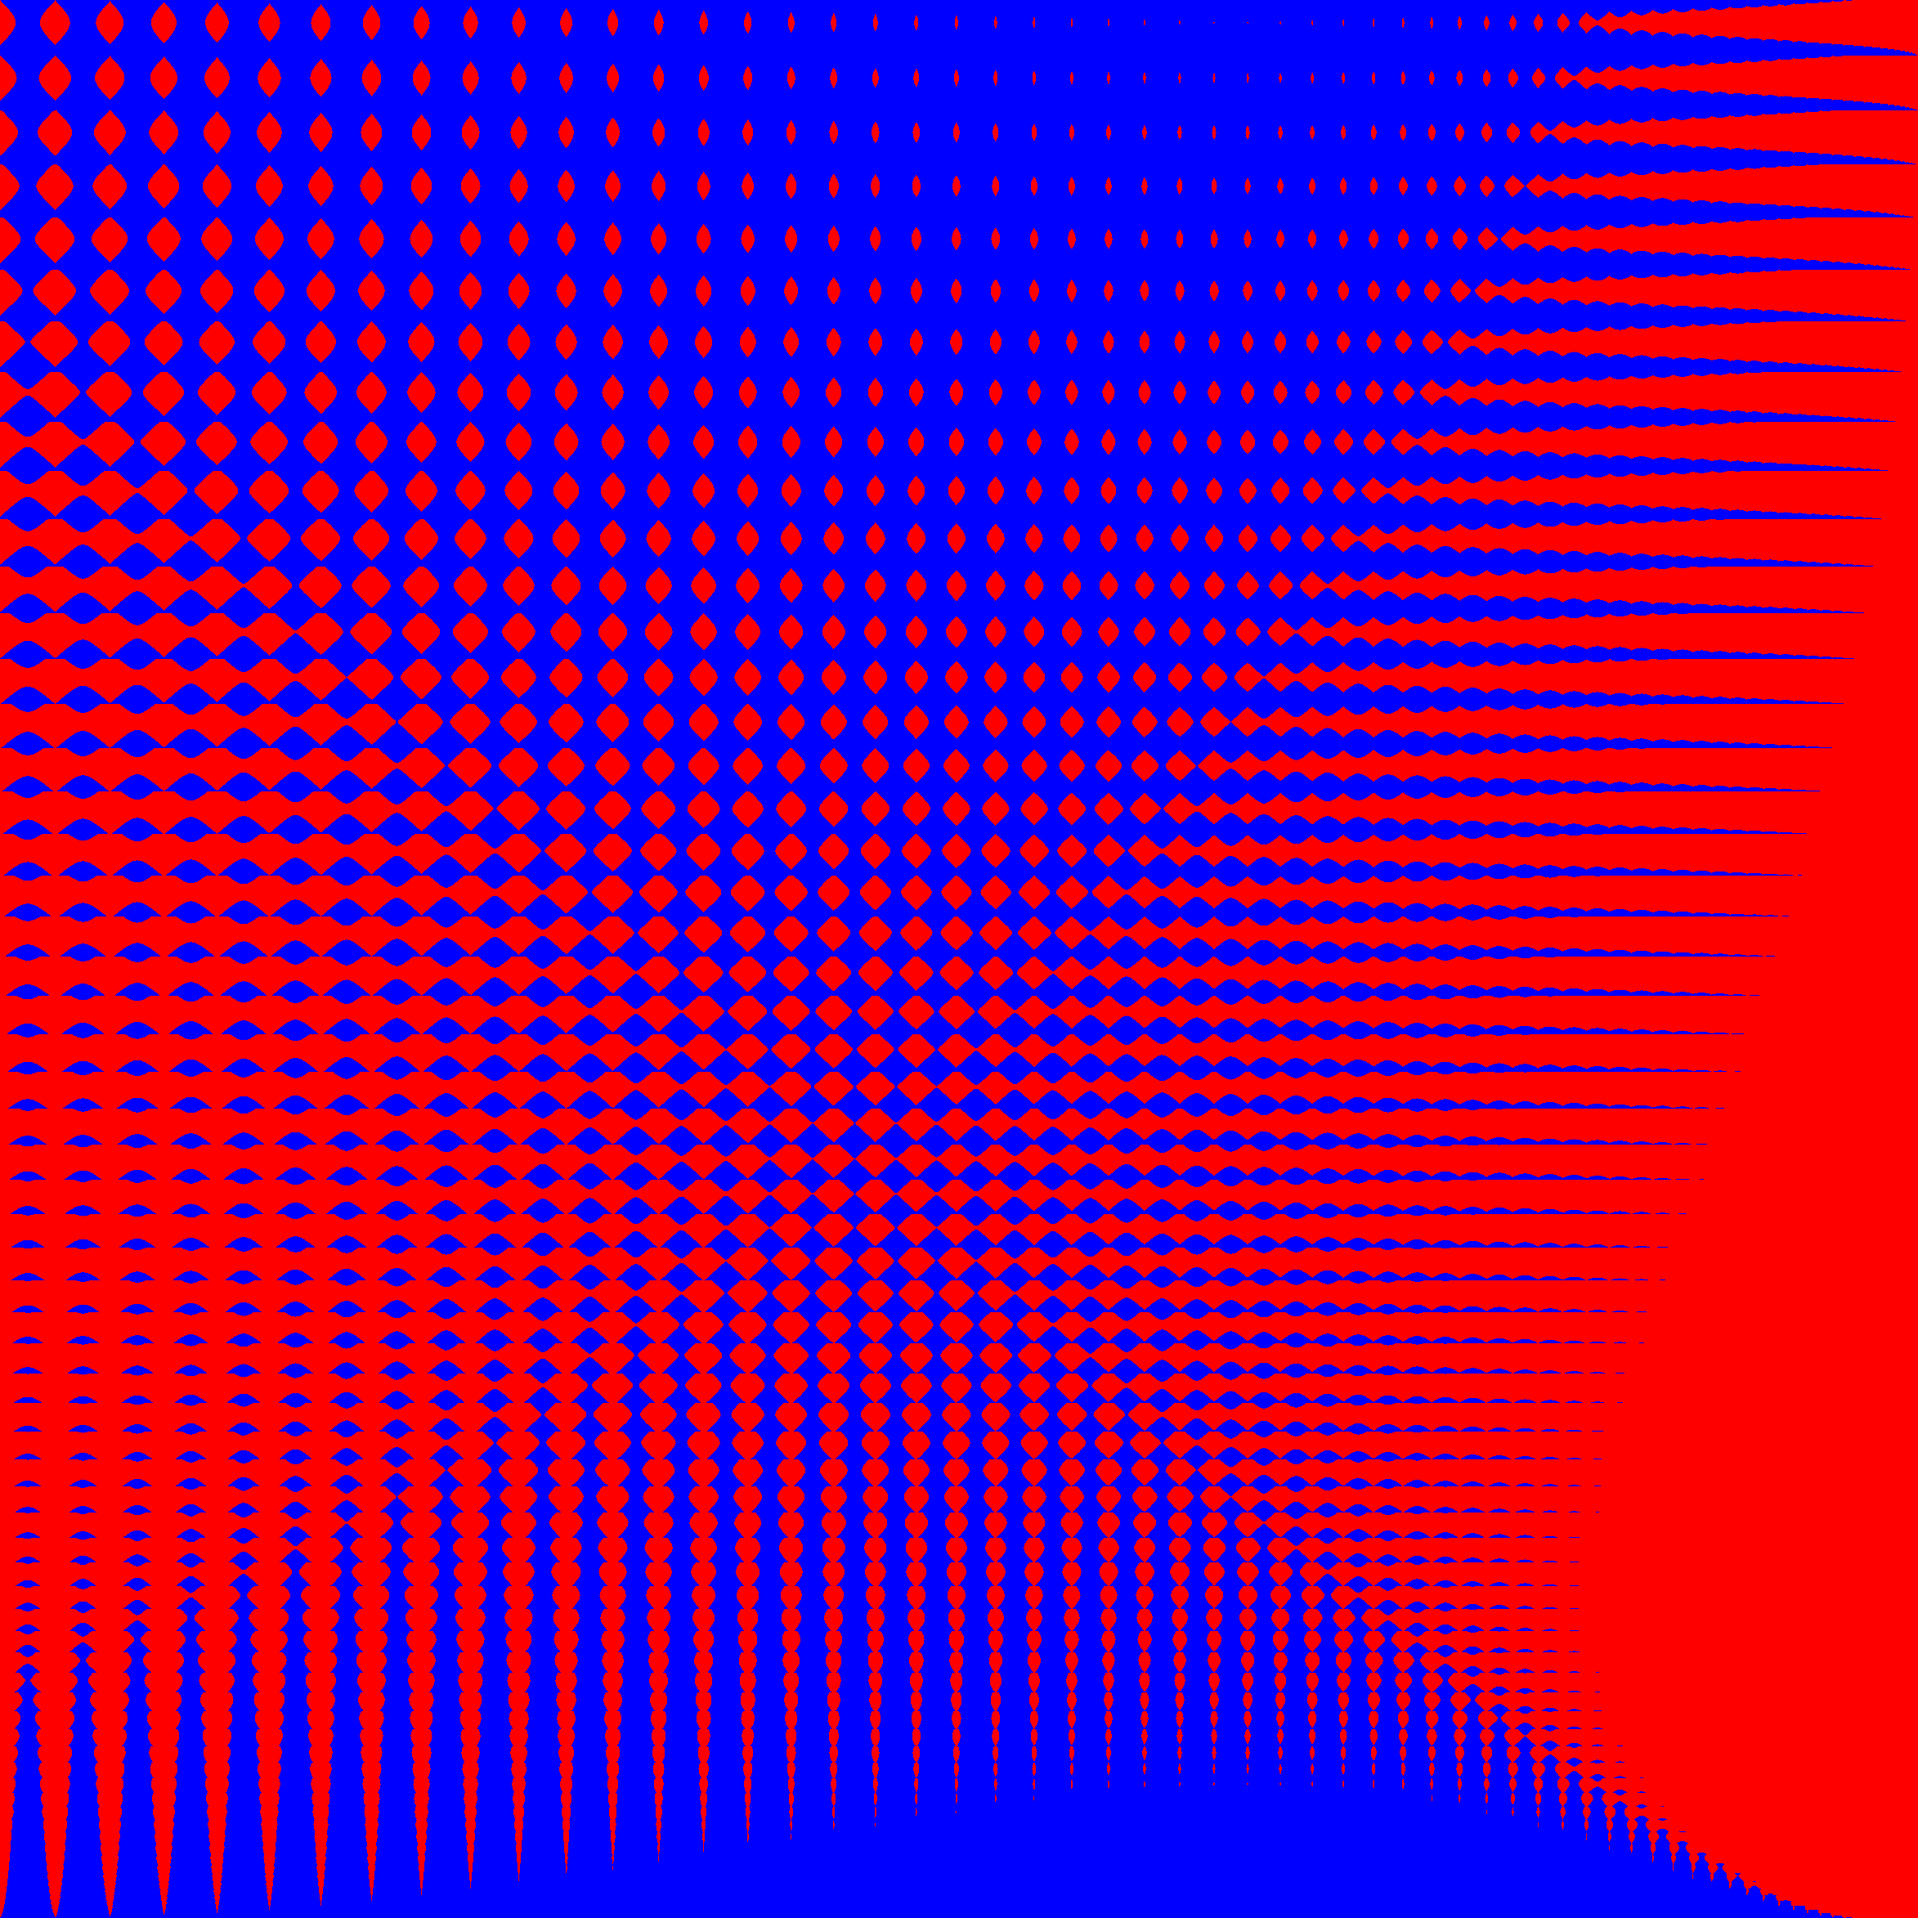
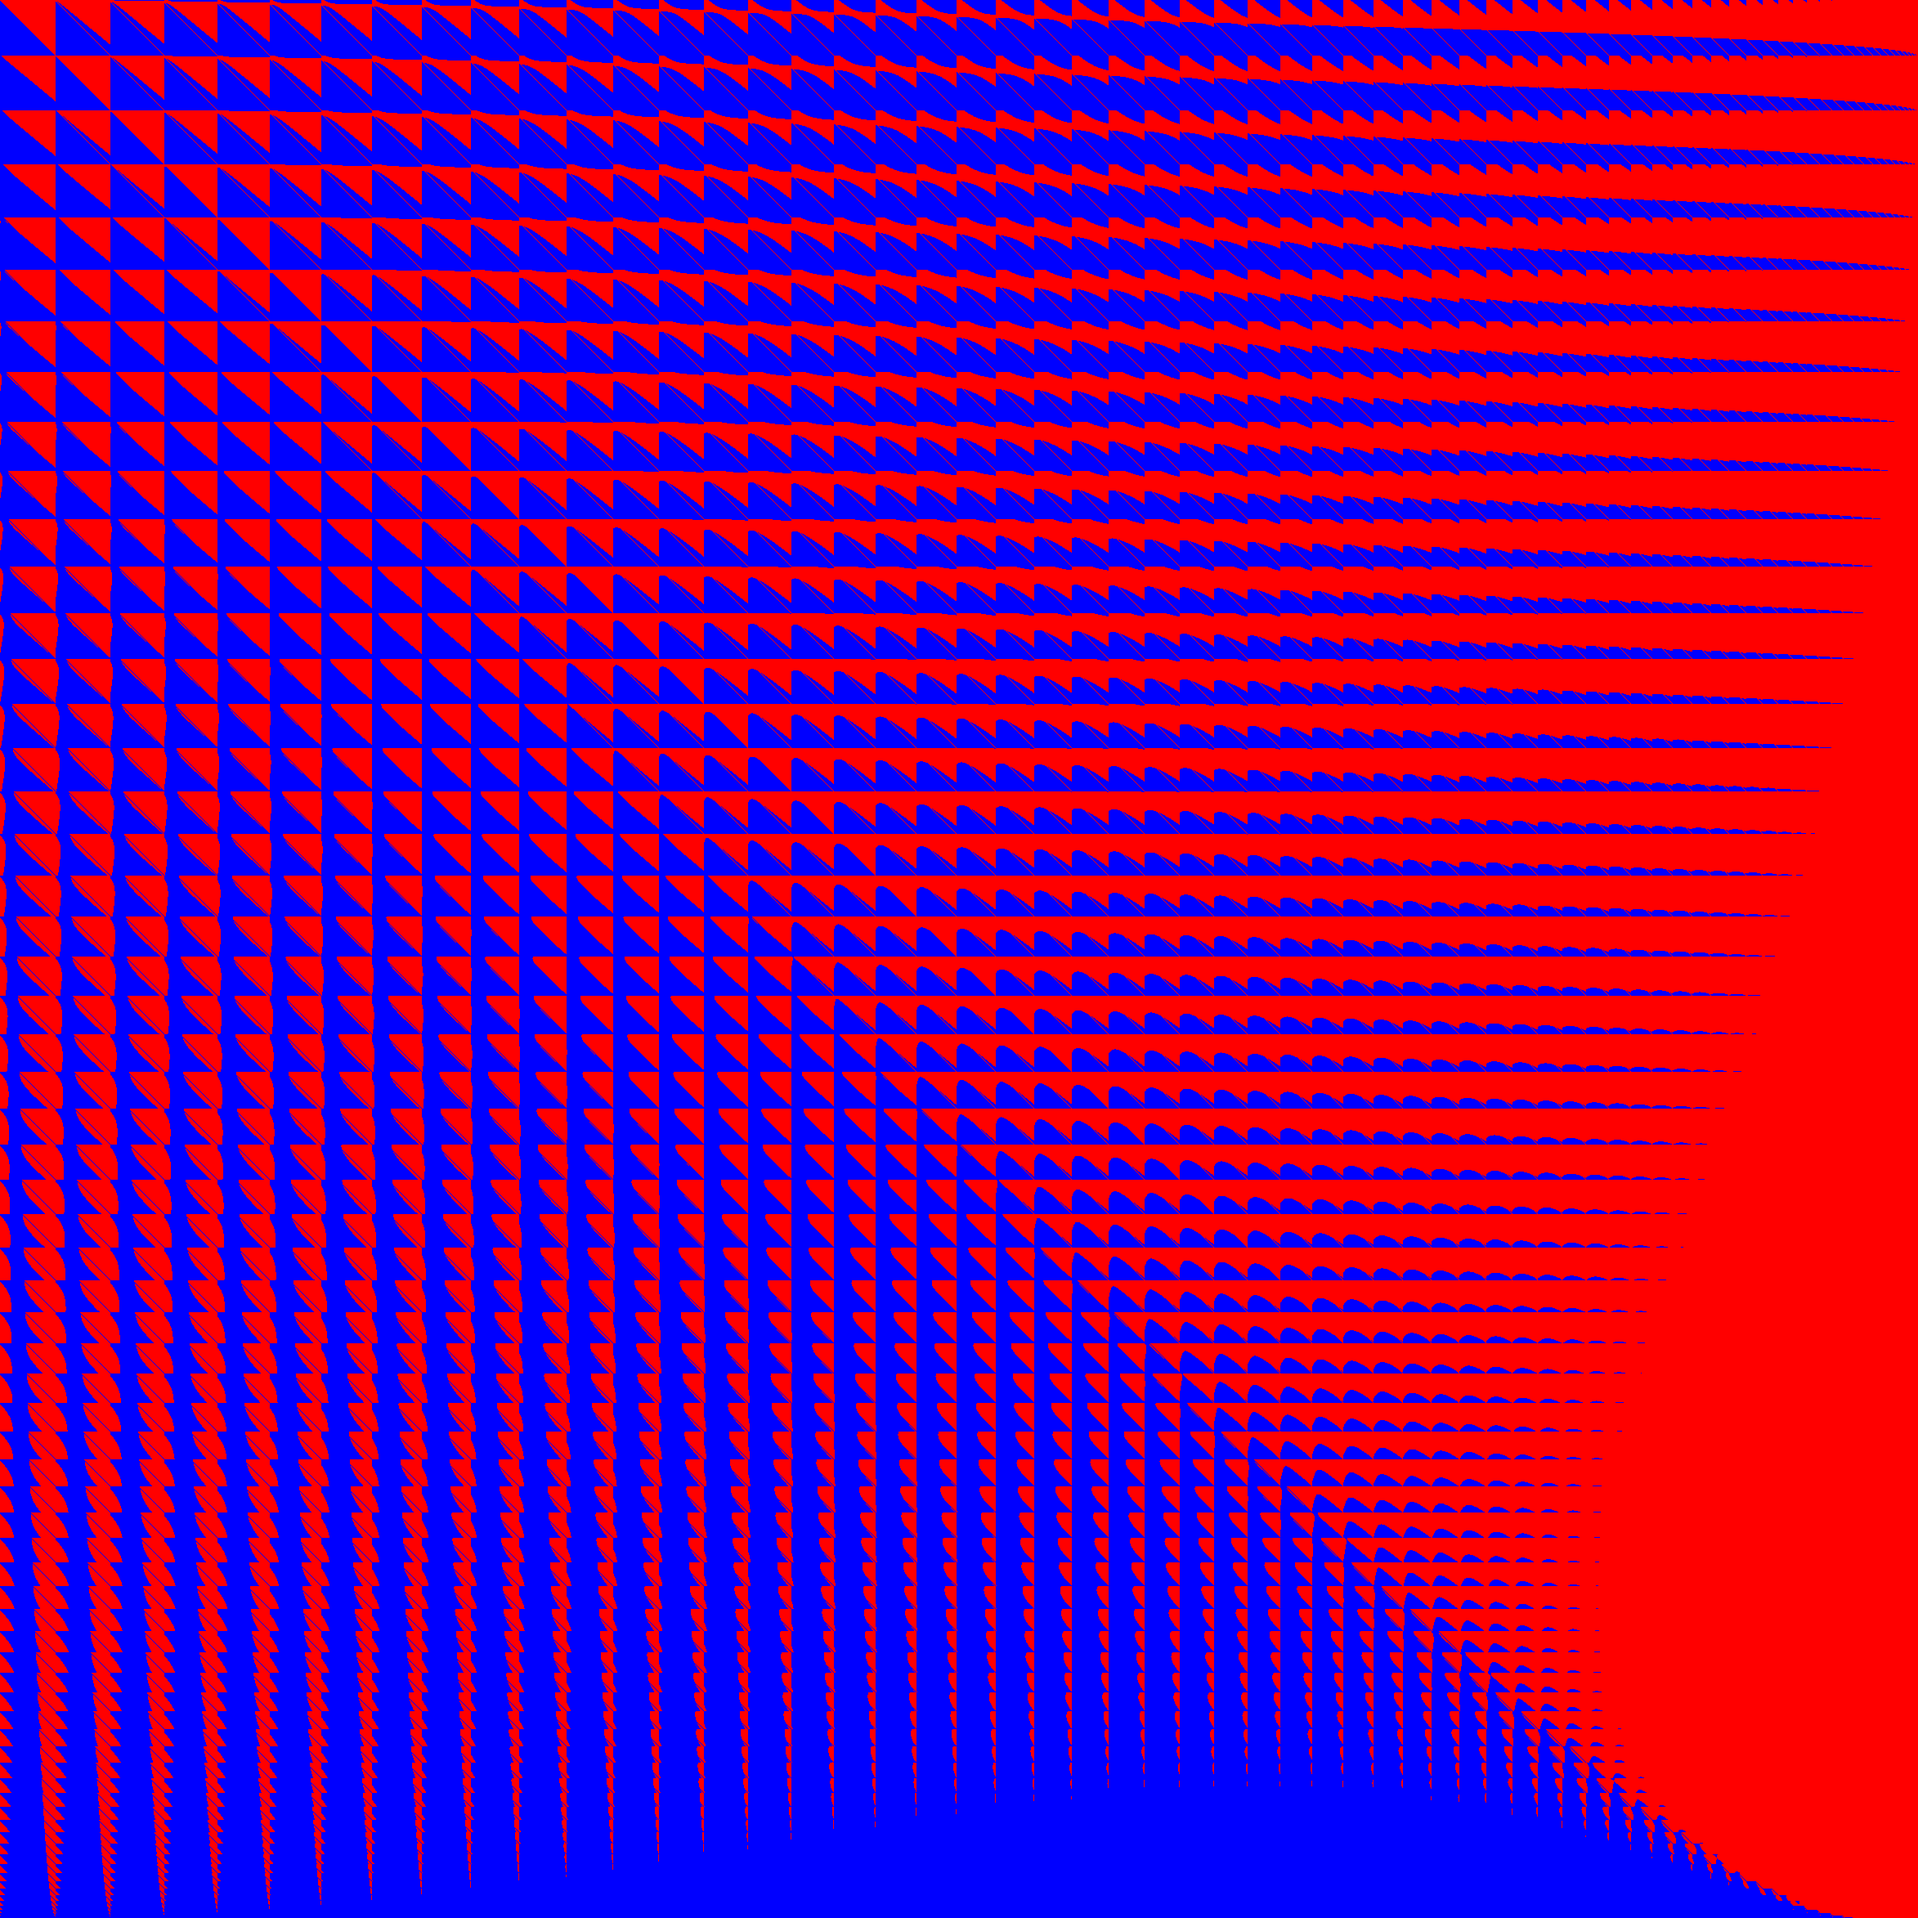
Bugfix: leader can only change if only one driver stops in pit

Changed region(s): [[0.0, 0.0, 0.9335, 0.9957]]

diff --git a/f1.py b/f1.py
@@ -130,11 +130,17 @@ def race(
         if tires_b.pit_lap():
             race_time_b += 20
         
-        # leader changed?
-        if race_time_a > race_time_b:
-            leader = ' B'
-        if race_time_a < race_time_b:
-            leader = 'A '
+        if tires_a.pit_lap() and tires_b.pit_lap():
+            # both pit, leader remains
+            pass
+        else:
+            # at least one pit, leader changes
+            if tires_a.pit_lap() or tires_b.pit_lap():
+                # leader changed?
+                if race_time_a > race_time_b:
+                    leader = ' B'
+                if race_time_a < race_time_b:
+                    leader = 'A '
 
         if debug:
             a = str(tires_a.current_tire)

diff --git a/results.py b/results.py
@@ -10,7 +10,6 @@ results = pickle.load(open( "results.p", "rb" ))
 
 size = (LAPS-1) * (LAPS-2) // 2
 
-
 # go through all rows and check for all-blue
 for a,b in pitstops():
     all_blue = True
@@ -62,10 +61,6 @@ image_matrix = np.zeros((size, size, 3), dtype=np.uint8)
 for i,(a,b) in enumerate(tqdm(pitstops(), total=size)):
     for j,(c,d) in enumerate(pitstops()):
         image_matrix[i, j] = color_map[results[a, b, c, d]]
-        
-
-
-        
         
 image = Image.fromarray(image_matrix)
 
